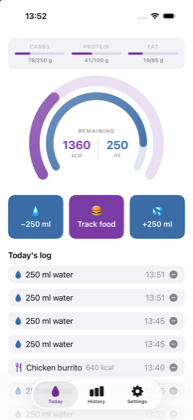
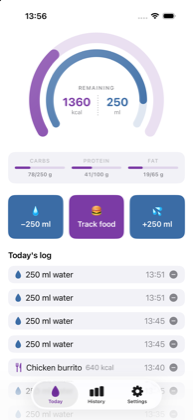
Move the macro panel below the gauge
The gauge now leads the screen, with macros sitting between it and the
buttons.

Changed region(s): [[0.0622, 0.0619, 0.9326, 0.4333], [0.2176, 0.031, 0.2487, 0.0619]]

diff --git a/HydroHomie/Views/TodayView.swift b/HydroHomie/Views/TodayView.swift
@@ -48,13 +48,13 @@ struct TodayView: View {
     var body: some View {
         ScrollView {
             VStack(spacing: 24) {
+                rings
                 MacroPanel(
                     totals: HydrationStore.macros(of: todaysFood),
                     carbsGoal: settings.dailyCarbsGoal,
                     proteinGoal: settings.dailyProteinGoal,
                     fatGoal: settings.dailyFatGoal
                 )
-                rings
                 TodayActionRow(
                     unit: unit,
                     incrementML: settings.waterIncrementML,

diff --git a/HydroHomie/Views/MacroPanel.swift b/HydroHomie/Views/MacroPanel.swift
@@ -4,7 +4,8 @@
 
 import SwiftUI
 
-/// Compact macro readout above the rings: three columns side by side, each a name,
+/// Compact macro readout between the gauge and the buttons: three columns side by
+/// side, each a name,
 /// a horizontal bar and a consumed/goal figure. Shares the buttons' corner radius so
 /// the two blocks read as a set.
 struct MacroPanel: View {
